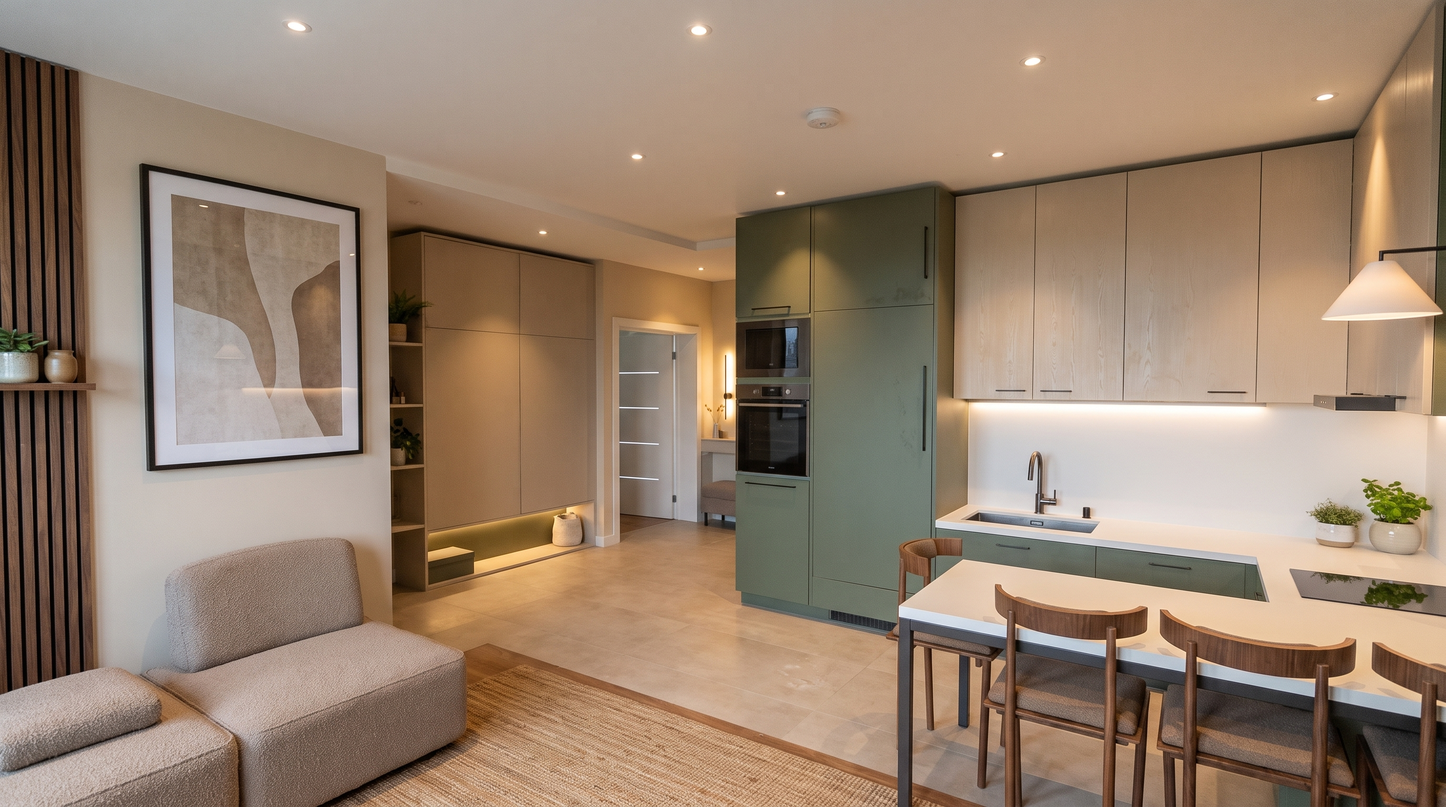
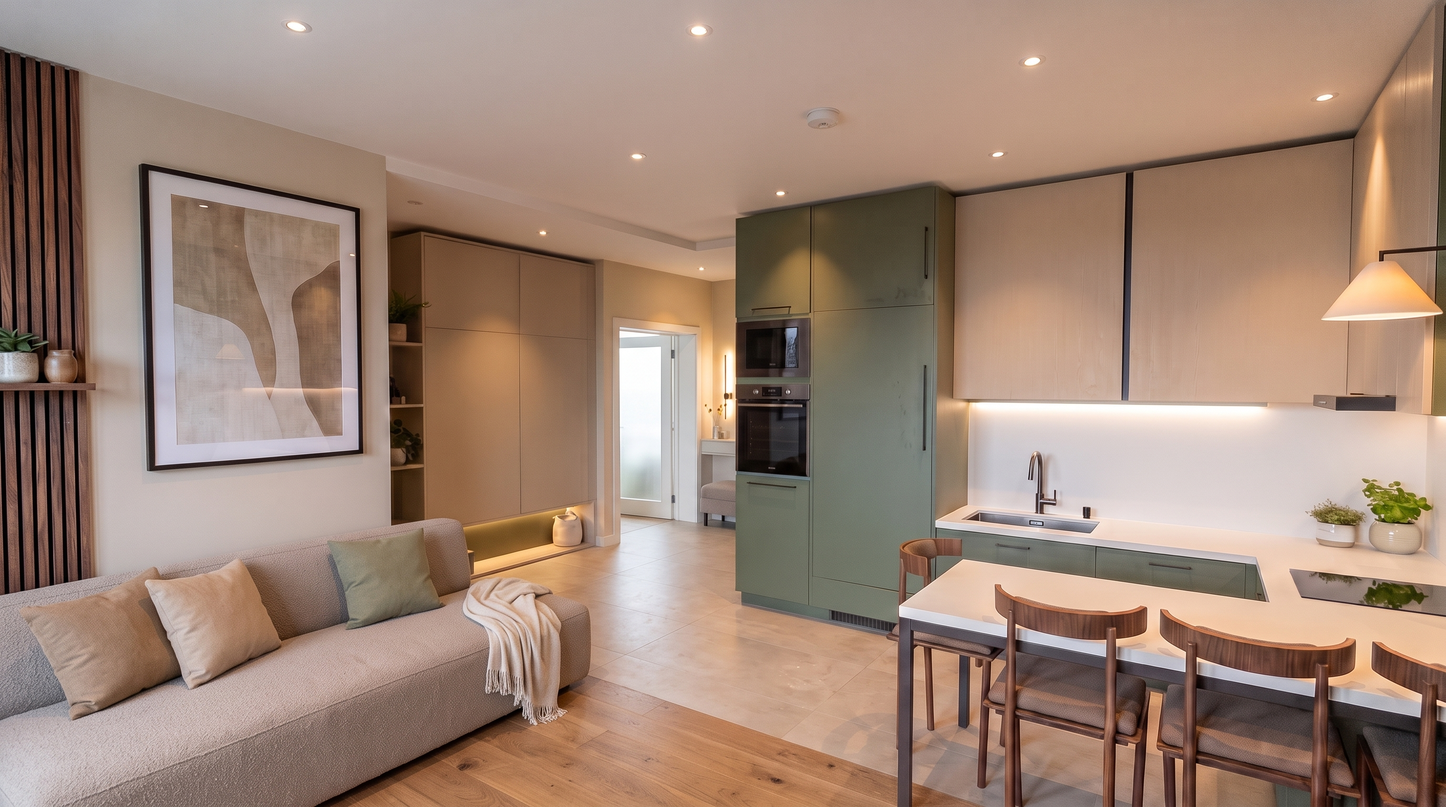
render: правки ракурса 4.7, шов навесных шкафов над рабочим рядом, зонирование пола в промпте
Навесные шкафы над рабочим рядом остались с швом 3 мм после прошлой правки —
теперь и у них ugap 8 мм, дверцы различимы на обоих чистовиках.

В раздел r4-ne дописано зонирование пола, габарит дивана и число дверц шкафа
в прихожей: модель путала всё три.

Чистовики: обычный после двух правок (диван, бежевые фасады в две широкие
дверцы), с --film после трёх (фасады, граница плитки и дуба, диван). Правка
про шкаф в прихожей и свежая база откачены, прежние версии в render/wip.

diff --git a/items.js b/items.js
@@ -212,7 +212,7 @@ const PHYS={}; // id → boxes
      // ---- wall units over the run, 4 doors
      b(0,0.34,1.45,2.69,KZ0,Z1,mat.hdark);
      const U0=I?0.36:KZ0, UN=I?2:4; // I: two wide doors run from the short-leg unit to the fridge column (corner unit included)
-     for(let i=0;i<UN;i++){ const z0=U0+i*(Z1-U0)/UN, z1=z0+(Z1-U0)/UN; b.round(0.34,0.36,1.45+gap/2,2.69-gap/2,z0+gap/2,z1-gap/2,0.001,mat.upper); b.handle(0.36,1.50,(z0+z1)/2,0.16,'z','x'); }
+     for(let i=0;i<UN;i++){ const z0=U0+i*(Z1-U0)/UN, z1=z0+(Z1-U0)/UN; b.round(0.34,0.36,1.45+ugap/2,2.69-ugap/2,z0+ugap/2,z1-ugap/2,0.001,mat.upper); b.handle(0.36,1.50,(z0+z1)/2,0.16,'z','x'); }
      // ---- appliance column: dishwasher, oven, microwave, cupboard on top
      b(0,KC,0.1,2.69,KZ1,3.59,mat.hdark); b(0,KP,0,0.1,KZ1,3.59,mat.dark);
      const pz=[KZ1+0.02,3.57], pc=(KZ1+3.59)/2;

diff --git a/render/STYLE.md b/render/STYLE.md
@@ -43,6 +43,7 @@ The same kitchen-living room seen from the middle of the living zone, at eye lev
 
 ## r4-ne
 The same kitchen-living room seen from the north-east corner, at eye level, looking west-south-west across the room (camera 4.7). The sofa without armrests is in the left foreground, the walnut slat panel of the sofa wall closes the left edge of the frame and a framed picture hangs on the painted wall beside it. In the centre of the far wall is the doorway to the hall with a light door visible beyond it — a doorway, never a window. The kitchen takes the right half of the frame: the appliance and fridge columns, the wall units over the sink run, the worktop with its sink and mixer, and the dining table with its chairs in the right foreground. Same finishes as the other shots of this room: same cabinet colour, same tile, same oak floor, same slat walnut.
+Floor zoning: warm oak plank flooring fills the near half of the room, all the floor in front of the sofa, and meets large-format warm beige porcelain tile on one straight flush line across the room with no threshold strip; the tile covers the kitchen strip in front of the run and the whole hall floor beyond the doorway. The sofa is one low 2.3 × 1.5 m piece without armrests, not an armchair. The tall cabinet left of the hall doorway is 1.77 m wide with two doors of 0.87 m and two matching doors above them, and an open shoe niche underneath.
 
 ## film
 Photographic realism pass — the result must read as a photograph of this flat, not as an architectural render. Keep the geometry, the furniture, the layout and the materials exactly as described above; change only how the picture was shot and processed.
